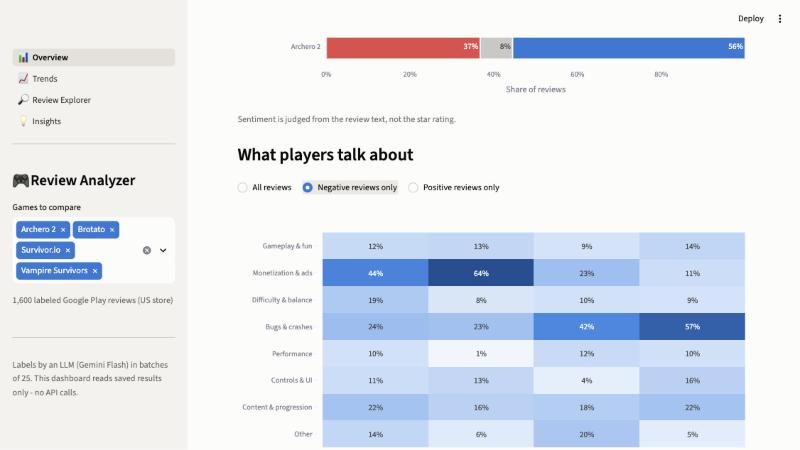
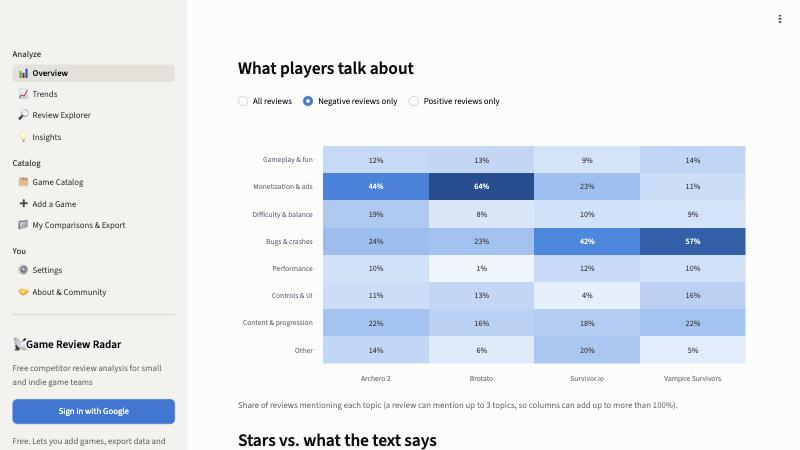
Mobile Game Review Analyzer: LLM-labeled Google Play reviews + Streamlit dashboard

diff --git a/README.md b/README.md
@@ -35,6 +35,10 @@ community project.
 Browsing is open to everyone. Signing in with Google (free) unlocks adding games, labeling, exports
 and saved comparisons.
 
+| Game Catalog | About & Community |
+|---|---|
+| ![Catalog](screenshots/09_catalog.jpg) | ![Community](screenshots/10_community.jpg) |
+
 ---
 
 ## Case study: four survivor-like games
